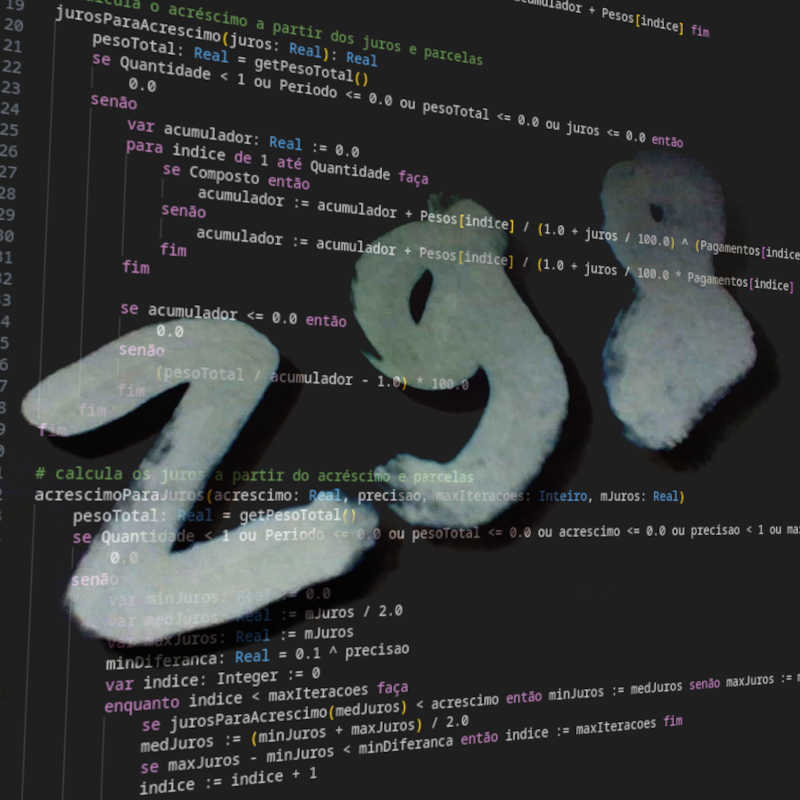
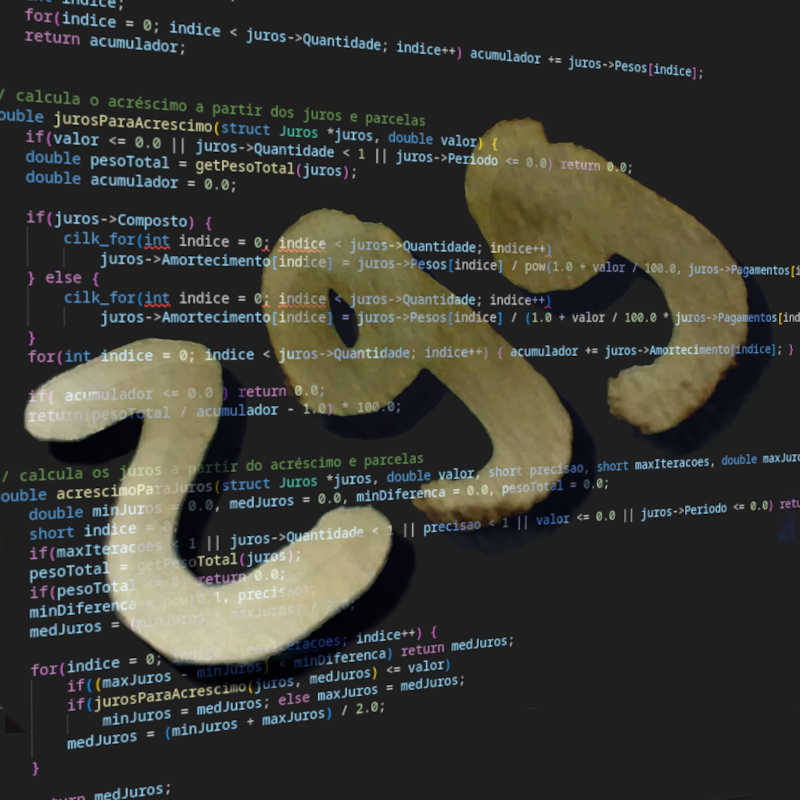
Add files via upload
+ Cilk

diff --git a/jurosc.c b/jurosc.c
@@ -1,0 +1,128 @@
+// Cálculo dos juros, sendo que precisa de parcelas pra isso
+// Versão 0.1: 29/07/2025: copiada da versão em C para Cilk e colocados cilk_fors dentro de if em jurosParaAcrescimo
+
+#include <math.h>      // para usar pow()
+#include <stdio.h>     // para usar printf() e gets()
+#include <stdlib.h>    // para usar malloc() e free()
+#include <stdbool.h>   // para usar o tipo bool, true e false
+#include <locale.h>    // para usar setlocale()
+#include </home/jacknpoe/Executáveis/cilk/lib/clang/16/include/cilk/cilk.h>  // para paralelismo, mudar para o endereço da sua instação de cilk
+
+// estrutura básica de propriedades para simplificar as chamadas
+struct Juros {
+	int Quantidade;
+	bool Composto;
+	double Periodo;
+	double *Pagamentos;
+	double *Pesos;
+    double *Amortecimento;
+};
+
+// para liberar a memória alocada aos ponteiros no final
+void liberaMemoria(struct Juros *juros) {
+	if(juros->Quantidade != 0) {
+		free(juros->Pagamentos);
+		free(juros->Pesos);
+        free(juros->Amortecimento);
+	}
+}
+
+// define a quantidade de parcelas
+bool setQuantidade(struct Juros *juros, int quantidade) {
+	if(quantidade < 0) return false;
+	if(quantidade == juros->Quantidade) return true;
+	juros->Pagamentos = (double *) malloc(sizeof(double) * quantidade);
+	if(quantidade > 0 && juros->Pagamentos == NULL) { juros->Quantidade = 0; return false; }
+	juros->Pesos = (double *) malloc(sizeof(double) * quantidade);
+	if(quantidade > 0 && juros->Pesos == NULL) { free(juros->Pagamentos); juros->Quantidade = 0; return false; }
+	juros->Amortecimento = (double *) malloc(sizeof(double) * quantidade);
+	if(quantidade > 0 && juros->Amortecimento == NULL) { free(juros->Pagamentos); free(juros->Pesos); juros->Quantidade = 0; return false; }
+	juros->Quantidade = quantidade; return true;
+}
+
+// define os valores escalares da estrutura (automaticamente, também chama setQuantidade)
+bool setValores(struct Juros *juros, int quantidade, bool composto, double periodo) {
+	if(!setQuantidade(juros, quantidade)) return false;
+	juros->Composto = composto;
+	juros->Periodo = periodo;
+	return true;
+}
+
+// calcula a somatória do array Pesos[]
+double getPesoTotal(struct Juros *juros) {
+	double acumulador = 0.0;
+	int indice;
+	for(indice = 0; indice < juros->Quantidade; indice++) acumulador += juros->Pesos[indice];
+	return acumulador;
+}
+
+// calcula o acréscimo a partir dos juros e parcelas
+double jurosParaAcrescimo(struct Juros *juros, double valor) {
+	if(valor <= 0.0 || juros->Quantidade < 1 || juros->Periodo <= 0.0) return 0.0;
+	double pesoTotal = getPesoTotal(juros);
+	double acumulador = 0.0; 
+	
+    if(juros->Composto) {  // em todas as soluções com paralelismo, Amortecimento é um array temporário que permite cálculos separados
+	    cilk_for(int indice = 0; indice < juros->Quantidade; indice++)
+            juros->Amortecimento[indice] = juros->Pesos[indice] / pow(1.0 + valor / 100.0, juros->Pagamentos[indice] / juros->Periodo);
+    } else {
+        cilk_for(int indice = 0; indice < juros->Quantidade; indice++)
+			juros->Amortecimento[indice] = juros->Pesos[indice] / (1.0 + valor / 100.0 * juros->Pagamentos[indice] / juros->Periodo);
+	}
+    for(int indice = 0; indice < juros->Quantidade; indice++) { acumulador += juros->Amortecimento[indice]; }
+	
+	if( acumulador <= 0.0 ) return 0.0;
+	return(pesoTotal / acumulador - 1.0) * 100.0;
+}
+
+// calcula os juros a partir do acréscimo e parcelas
+double acrescimoParaJuros(struct Juros *juros, double valor, short precisao, short maxIteracoes, double maxJuros) {
+	double minJuros = 0.0, medJuros = 0.0, minDiferenca = 0.0, pesoTotal = 0.0;
+	short indice = 0;
+	if(maxIteracoes < 1 || juros->Quantidade < 1 || precisao < 1 || valor <= 0.0 || juros->Periodo <= 0.0) return 0.0;
+	pesoTotal = getPesoTotal(juros);
+	if(pesoTotal <= 0) return 0.0;
+	minDiferenca = pow(0.1, precisao);
+	medJuros = (minJuros + maxJuros) / 2.0;
+
+    for(indice = 0; indice < maxIteracoes; indice++) {
+		if((maxJuros - minJuros) < minDiferenca) return medJuros;
+		if(jurosParaAcrescimo(juros, medJuros) <= valor)
+			minJuros = medJuros; else maxJuros = medJuros;
+   		medJuros = (minJuros + maxJuros) / 2.0;
+	}
+	
+	return medJuros;
+}
+
+int main() {
+    // define os valores de juros
+	struct Juros juros;
+	double pesoTotal = 0.0, acrescimoCalculado = 0.0, jurosCalculado = 0.0;
+	int indice;
+
+	setlocale( LC_ALL, "");	
+
+	if(!setValores(&juros, 300000, true, 30.0)) {
+		printf("Erro ao definir os valores da estrutura juros!");
+		return 1;
+	}
+
+    	for(indice = 0; indice < juros.Quantidade; indice++) {
+		juros.Pagamentos[indice] = (indice + 1) * juros.Periodo;
+		juros.Pesos[indice] = 1;
+	}
+
+    // calcula, guarda e imprime os resultados
+	pesoTotal = getPesoTotal(&juros);
+	printf("Peso total: %3.15f\n", pesoTotal);
+	acrescimoCalculado = jurosParaAcrescimo(&juros, 3);
+	printf("Acréscimo calculado: %3.15f\n", acrescimoCalculado);
+	jurosCalculado = acrescimoParaJuros(&juros, acrescimoCalculado, 15, 100, 50.0);
+	printf("Juros calculado: %3.15f\n", jurosCalculado);
+
+
+    // libera a memória e finaliza
+	liberaMemoria(&juros);
+	return 0;
+}
